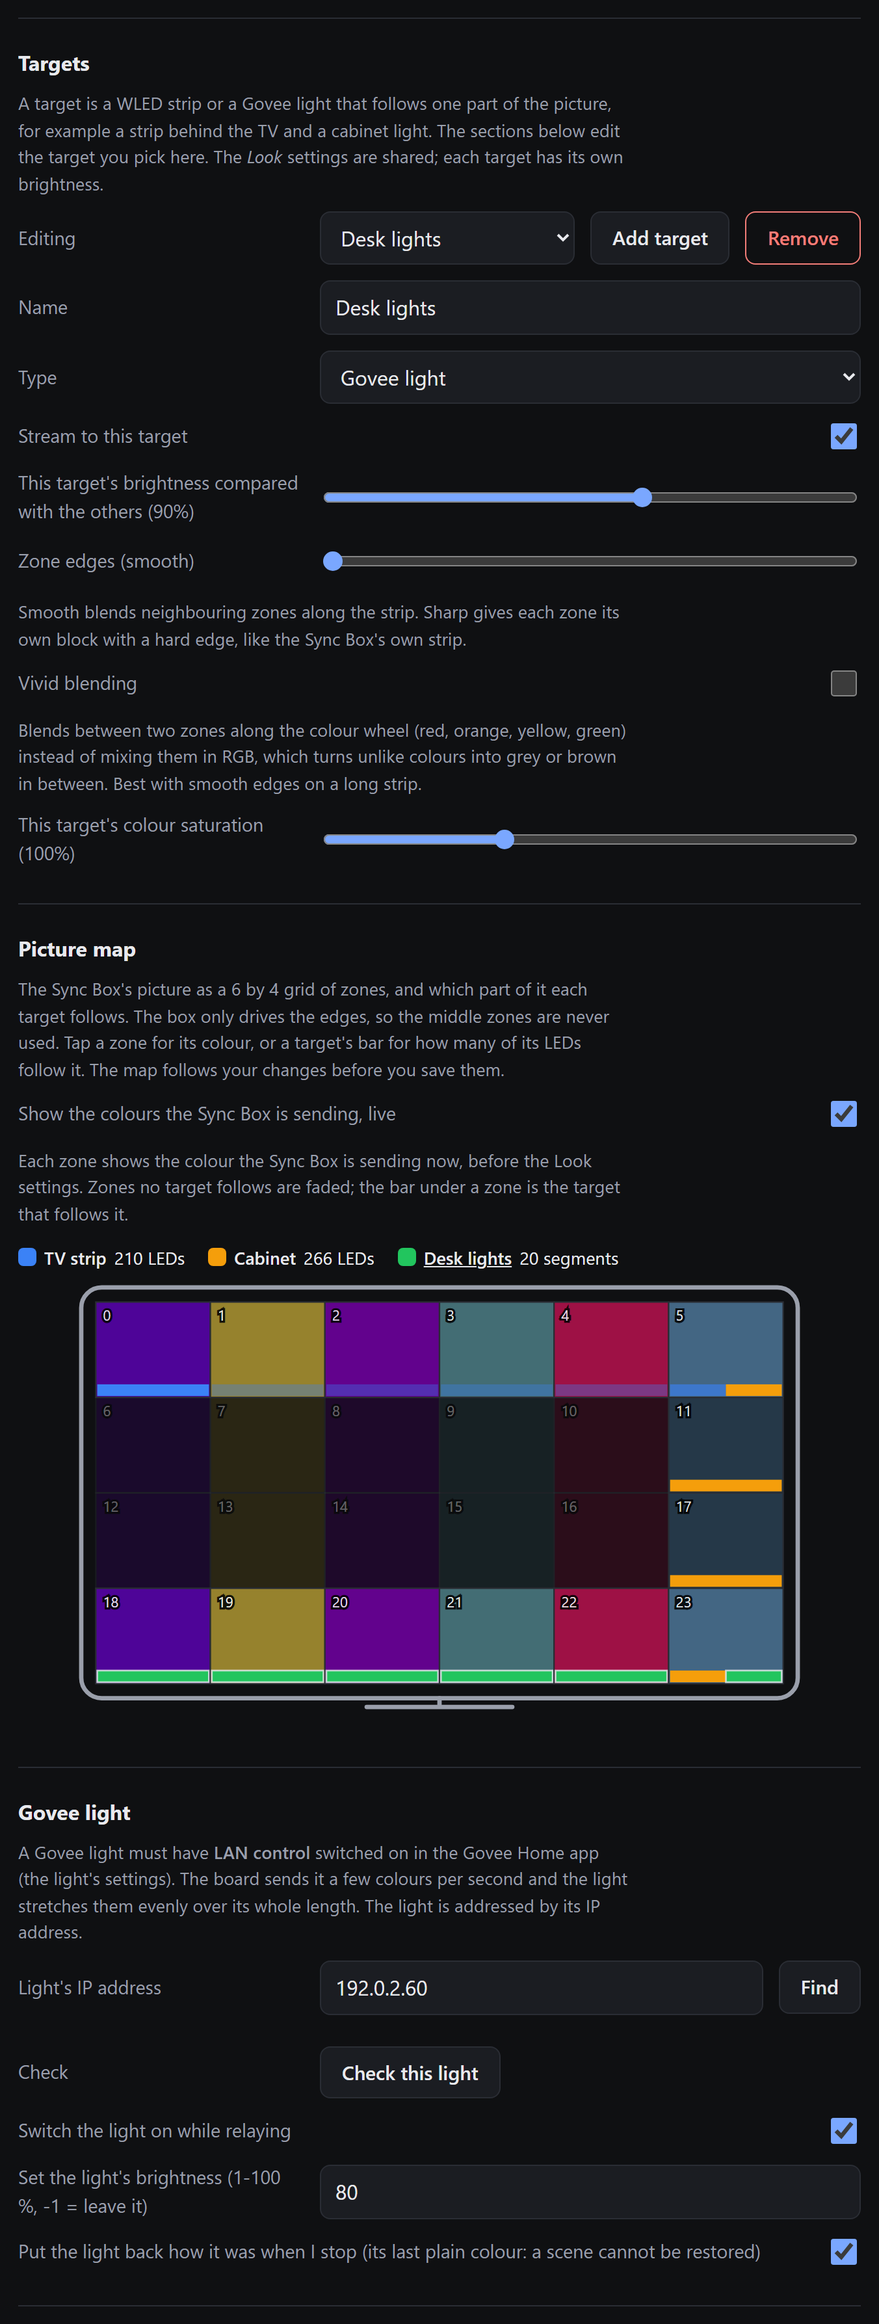
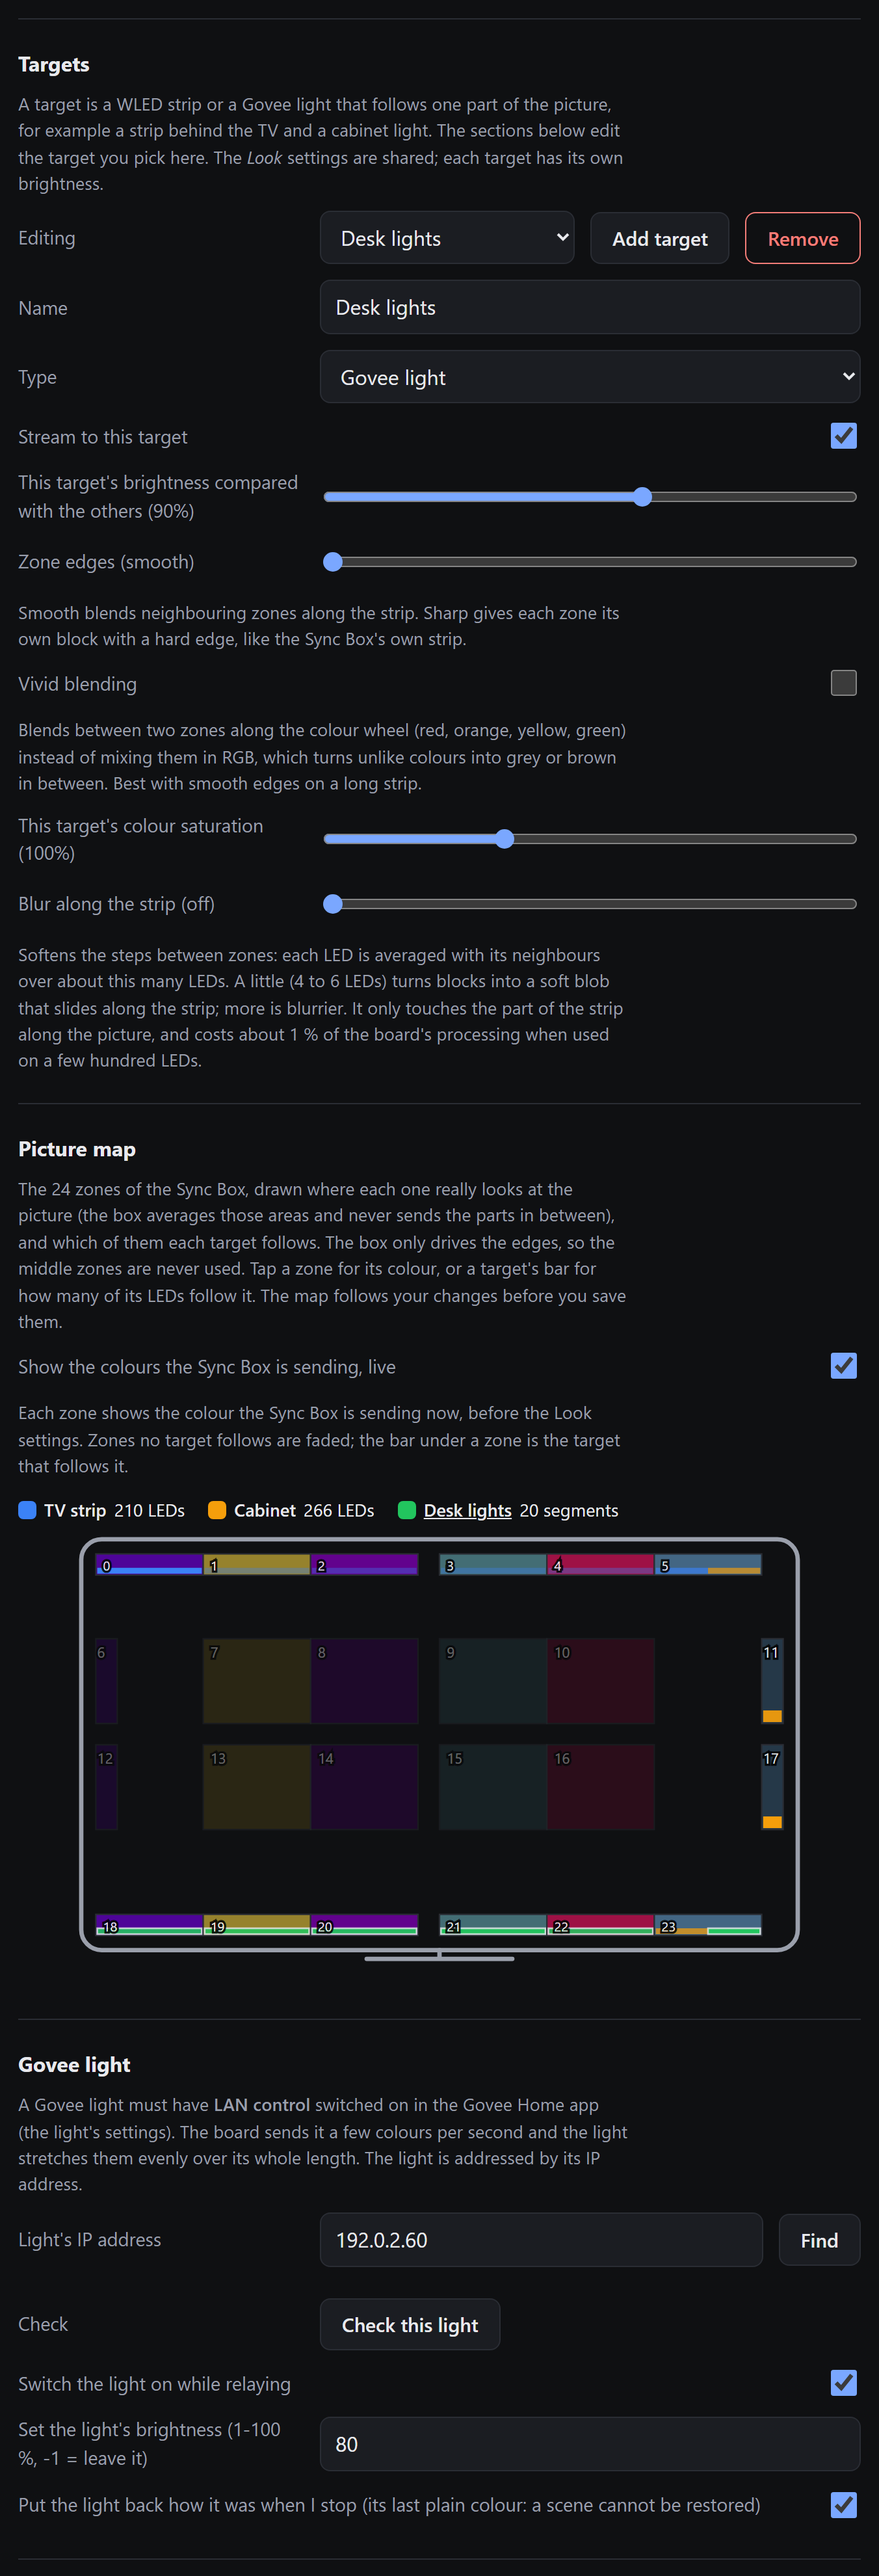
Picture map: draw each zone where the Sync Box really looks
The map showed an even 6 x 4 grid. It now uses the measured windows: thin bands
along the top and bottom edges, a gap in the middle, two tall windows per middle
row, and narrow strips at the left and right edges (the same numbers as the
relay's layout maths, see docs/PROTOCOL.md). The labels and each target's bar
are sized to fit the thin zones. Four new page checks (220 in all); the
screenshots in docs/images are regenerated from the mock device.

diff --git a/web/index.html b/web/index.html
@@ -63,7 +63,7 @@ input[type=range].wide{width:100%}
 
 <div class="card" id="mapCard">
   <h2>Picture map</h2>
-  <p class="small mut">The Sync Box's picture as a 6 by 4 grid of zones, and which part of it each target follows. The box only drives the edges, so the middle zones are never used. Tap a zone for its colour, or a target's bar for how many of its LEDs follow it. The map follows your changes before you save them.</p>
+  <p class="small mut">The 24 zones of the Sync Box, drawn where each one really looks at the picture (the box averages those areas and never sends the parts in between), and which of them each target follows. The box only drives the edges, so the middle zones are never used. Tap a zone for its colour, or a target's bar for how many of its LEDs follow it. The map follows your changes before you save them.</p>
   <div class="row"><label for="mapLiveOn">Show the colours the Sync Box is sending, live</label><input id="mapLiveOn" type="checkbox" style="flex:0 0 auto" checked></div>
   <p class="small mut" id="mapLiveNote"></p>
   <div id="mapLegend" class="legend small"></div>
@@ -284,16 +284,24 @@ input[type=range].wide{width:100%}
     setTimeout(liveTick,500);
   }
   if(window.IntersectionObserver)new IntersectionObserver(function(en){mapVisible=en[0].isIntersecting;}).observe($('mapCard'));
+  /* Where each zone looks (measured, see docs/PROTOCOL.md), in pixels of a 1920 x 1080 picture: the same windows as the board's layout maths. */
+  var ZX=[[0,300],[300,600],[600,900],[960,1260],[1260,1560],[1560,1860]],ZY=[[0,60],[240,480],[540,780],[1020,1080]];
+  function zoneBox(z){                      // [x, y, width, height]
+    var r=(z/6)|0,c=z%6,y0=ZY[r][0],h=ZY[r][1]-ZY[r][0];
+    if((r===1||r===2)&&c===0)return[0,y0,60,h];          // the left and right zones of the middle rows are 60 px strips at the screen edge
+    if((r===1||r===2)&&c===5)return[1860,y0,60,h];
+    return[ZX[c][0],y0,ZX[c][1]-ZX[c][0],h];
+  }
   function drawMap(){
     var svg=$('mapSvg'),n=(cfg&&cfg.targets)?cfg.targets.length:1,leg=$('mapLegend');
     while(svg.firstChild)svg.removeChild(svg.firstChild);leg.innerHTML='';
-    var X=14,Y=14,W=472,H=262,cw=W/6,ch=H/4,tot=[],mx=[],i,z;
+    var X=14,Y=14,W=472,H=262,tot=[],mx=[],i,z;
     for(i=0;i<n;i++){var u=usage[i]||[],s=0,m=0;for(z=0;z<24;z++){var v=u[z]||0;s+=v;if(v>m)m=v;}tot[i]=s;mx[i]=m;}
     svgEl('rect',{x:4,y:4,width:492,height:282,rx:14,fill:'none',stroke:'var(--mut)','stroke-width':3},svg);          // the TV
     svgEl('path',{d:'M200 292 H300 M250 286 V292',stroke:'var(--mut)','stroke-width':3,fill:'none','stroke-linecap':'round'},svg);
     cells=[];
     for(z=0;z<24;z++){
-      var r=(z/6)|0,c=z%6,x=X+c*cw,y=Y+r*ch,inner=(r===1||r===2)&&c>=1&&c<=4;
+      var r=(z/6)|0,c=z%6,zb=zoneBox(z),x=X+zb[0]*W/1920,y=Y+zb[1]*H/1080,cw=zb[2]*W/1920,ch=zb[3]*H/1080,bh=ch<30?4:8,inner=(r===1||r===2)&&c>=1&&c<=4;
       var users=[];for(i=0;i<n;i++)if((usage[i]||[])[z]>0.05)users.push(i);
       // live view: a zone no target follows is faded, the targets are a bar under the colour; otherwise the old look, a tinted block per target
       var g=svgEl('g',{'data-zone':z,opacity:liveOn?(users.length?1:0.4):(inner?0.4:1)},svg);
@@ -301,12 +309,12 @@ input[type=range].wide{width:100%}
       var cellTitle=svgEl('title',{},cell);
       users.forEach(function(ti,k){
         var v=usage[ti][z],a=(0.2+0.8*v/mx[ti])*(tview(ti).enabled?1:0.35),sh=ch/users.length,sw2=(cw-2)/users.length,bar=liveOn;
-        var rc=svgEl('rect',bar?{x:x+1+k*sw2,y:y+ch-9,width:Math.max(1,sw2),height:8,fill:COLORS[ti%COLORS.length],'fill-opacity':Math.max(0.35,a).toFixed(2),'data-t':ti,'data-z':z,stroke:ti===sel?'var(--fg)':'none','stroke-opacity':0.8,'stroke-width':1.2}
+        var rc=svgEl('rect',bar?{x:x+1+k*sw2,y:y+ch-bh-1,width:Math.max(1,sw2),height:bh,fill:COLORS[ti%COLORS.length],'fill-opacity':Math.max(0.35,a).toFixed(2),'data-t':ti,'data-z':z,stroke:ti===sel?'var(--fg)':'none','stroke-opacity':0.8,'stroke-width':1.2}
           :{x:x+1,y:y+1+k*sh,width:cw-2,height:Math.max(1,sh-2),fill:COLORS[ti%COLORS.length],'fill-opacity':a.toFixed(2),'data-t':ti,'data-z':z,
           stroke:ti===sel?'var(--fg)':'none','stroke-opacity':0.8,'stroke-width':1.2},g);
         svgEl('title',{},rc).textContent=tview(ti).name+': '+(Math.round(v*10)/10)+' '+tview(ti).unit+' ('+Math.round(100*v/tot[ti])+'% of its '+Math.round(tot[ti])+')'+(tview(ti).enabled?'':' - switched off');
       });
-      var tx=svgEl('text',{x:x+5,y:y+13,'font-size':10,fill:'var(--fg)',opacity:0.75,stroke:'var(--bg)','stroke-width':3,'paint-order':'stroke'},g);tx.textContent=z;
+      var tx=svgEl('text',{x:x+(cw>30?5:1),y:y+(ch>20?13:ch-3),'font-size':ch>20?10:9,fill:'var(--fg)',opacity:0.75,stroke:'var(--bg)','stroke-width':3,'paint-order':'stroke'},g);tx.textContent=z;
       cells.push({rect:cell,title:cellTitle,text:tx});
     }
     paintLive();

diff --git a/test/test_pages.js b/test/test_pages.js
@@ -162,11 +162,11 @@ async function cdp(wsUrl) {
       await toMap();
       check('live map: every zone shows the colour the box is sending', (await fillOf(3)) === 'rgb(30,225,40)' && (await fillOf(20)) === 'rgb(200,55,40)', await fillOf(3));
       check('live map: a zone a target follows is full, one nobody follows is faded', (await ota(grp(0) + ".getAttribute('opacity')")) === '1' && (await ota(grp(8) + ".getAttribute('opacity')")) === '0.4');
-      check('live map: the target is a bar under the colour, not a block over it', (await ota("document.querySelector('#mapSvg rect[data-t=\"0\"]').getAttribute('height')")) === '8');
+      check('live map: the target is a bar under the colour, not a block over it (a short one on the thin top band)', (await ota("document.querySelector('#mapSvg rect[data-t=\"0\"]').getAttribute('height')")) === '4');
       check('live map: tapping a zone gives its colour in words', (await ota(grp(3) + ".querySelector('rect > title').textContent")) === 'Zone 3: red 30, green 225, blue 40');
       check('live map: a note explains what the colours are', /Each zone shows the colour the Sync Box is sending/.test(await text('mapLiveNote')), await text('mapLiveNote'));
       await ota("var c=document.getElementById('mapLiveOn'); c.checked=false; c.dispatchEvent(new Event('change',{bubbles:true})); 1"); await sleep(400);
-      check('live map: switched off, the zones are plain and the targets are blocks over them again', (await fillOf(3)) === 'var(--bg)' && (await ota("document.querySelector('#mapSvg rect[data-t=\"0\"]').getAttribute('height')")) !== '8');
+      check('live map: switched off, the zones are plain and the targets are blocks over them again', (await fillOf(3)) === 'var(--bg)' && (await ota("document.querySelector('#mapSvg rect[data-t=\"0\"]').getAttribute('height')")) !== '4');
       const before = zonesCalls(); await sleep(1700);
       check('live map: switched off, the page stops asking the board for the colours', zonesCalls() === before, zonesCalls() + ' vs ' + before);
       await ota("location.reload(); 1"); await sleep(1900); await toMap();
@@ -427,7 +427,14 @@ async function cdp(wsUrl) {
     {
       const zonesOf = t => p.ev("JSON.stringify([...new Set(Array.from(document.querySelectorAll('#mapSvg rect[data-t=\"" + t + "\"]')).map(r => +r.getAttribute('data-z')))].sort((a,b)=>a-b))");
       const alphaOf = (t, z) => p.ev("+document.querySelector('#mapSvg rect[data-t=\"" + t + "\"][data-z=\"" + z + "\"]').getAttribute('fill-opacity')");
-      check('map: a 6 by 4 grid is drawn', (await p.ev("document.querySelectorAll('#mapSvg g[data-zone]').length")) === 24);
+      check('map: all 24 zones are drawn', (await p.ev("document.querySelectorAll('#mapSvg g[data-zone]').length")) === 24);
+      // where each zone sits is where the box really looks, not an even grid
+      const box = z => p.ev("(function(){var r=document.querySelector('#mapSvg g[data-zone=\"" + z + "\"] rect'); return JSON.stringify([+r.getAttribute('x'), +r.getAttribute('y'), +r.getAttribute('width'), +r.getAttribute('height')].map(function(v){return Math.round(v*10)/10;}));})()");
+      const nominal = JSON.stringify([14, 14, 78.7, 65.5]);
+      check('map: the top-left zone is a thin band along the top edge, not a quarter of the height', (await box(0)) !== nominal && JSON.parse(await box(0))[3] < 20, await box(0));
+      check('map: there is a gap between zones 2 and 3 (the middle of the picture is not looked at)', JSON.parse(await box(3))[0] > JSON.parse(await box(2))[0] + JSON.parse(await box(2))[2] + 5, await box(2) + ' ' + await box(3));
+      check('map: the side zones of the middle rows are thin strips at the screen edge', JSON.parse(await box(6))[2] < 20 && JSON.parse(await box(11))[2] < 20 && JSON.parse(await box(11))[0] > 450, await box(6) + ' ' + await box(11));
+      check('map: the middle rows sit above the centre (their windows are y 240-480 and 540-780 of 1080)', JSON.parse(await box(7))[1] < 14 + 262 * 0.25 && JSON.parse(await box(13))[1] > 14 + 262 * 0.45, await box(7) + ' ' + await box(13));
       check('map: a ceiling strip highlights the top row (zones 0-5) and nothing else', (await zonesOf(0)) === '[0,1,2,3,4,5]', await zonesOf(0));
       check('map: the 8 middle zones are faded (never used)', (await p.ev("document.querySelector('#mapSvg g[data-zone=\"7\"]').getAttribute('opacity')")) === '0.4' && (await p.ev("document.querySelector('#mapSvg g[data-zone=\"0\"]').getAttribute('opacity')")) === '1');
       check('map: the zone with the stretch past the TV is shaded darker than a middle one', (await alphaOf(0, 0)) > (await alphaOf(0, 2)), (await alphaOf(0, 0)) + ' vs ' + (await alphaOf(0, 2)));
